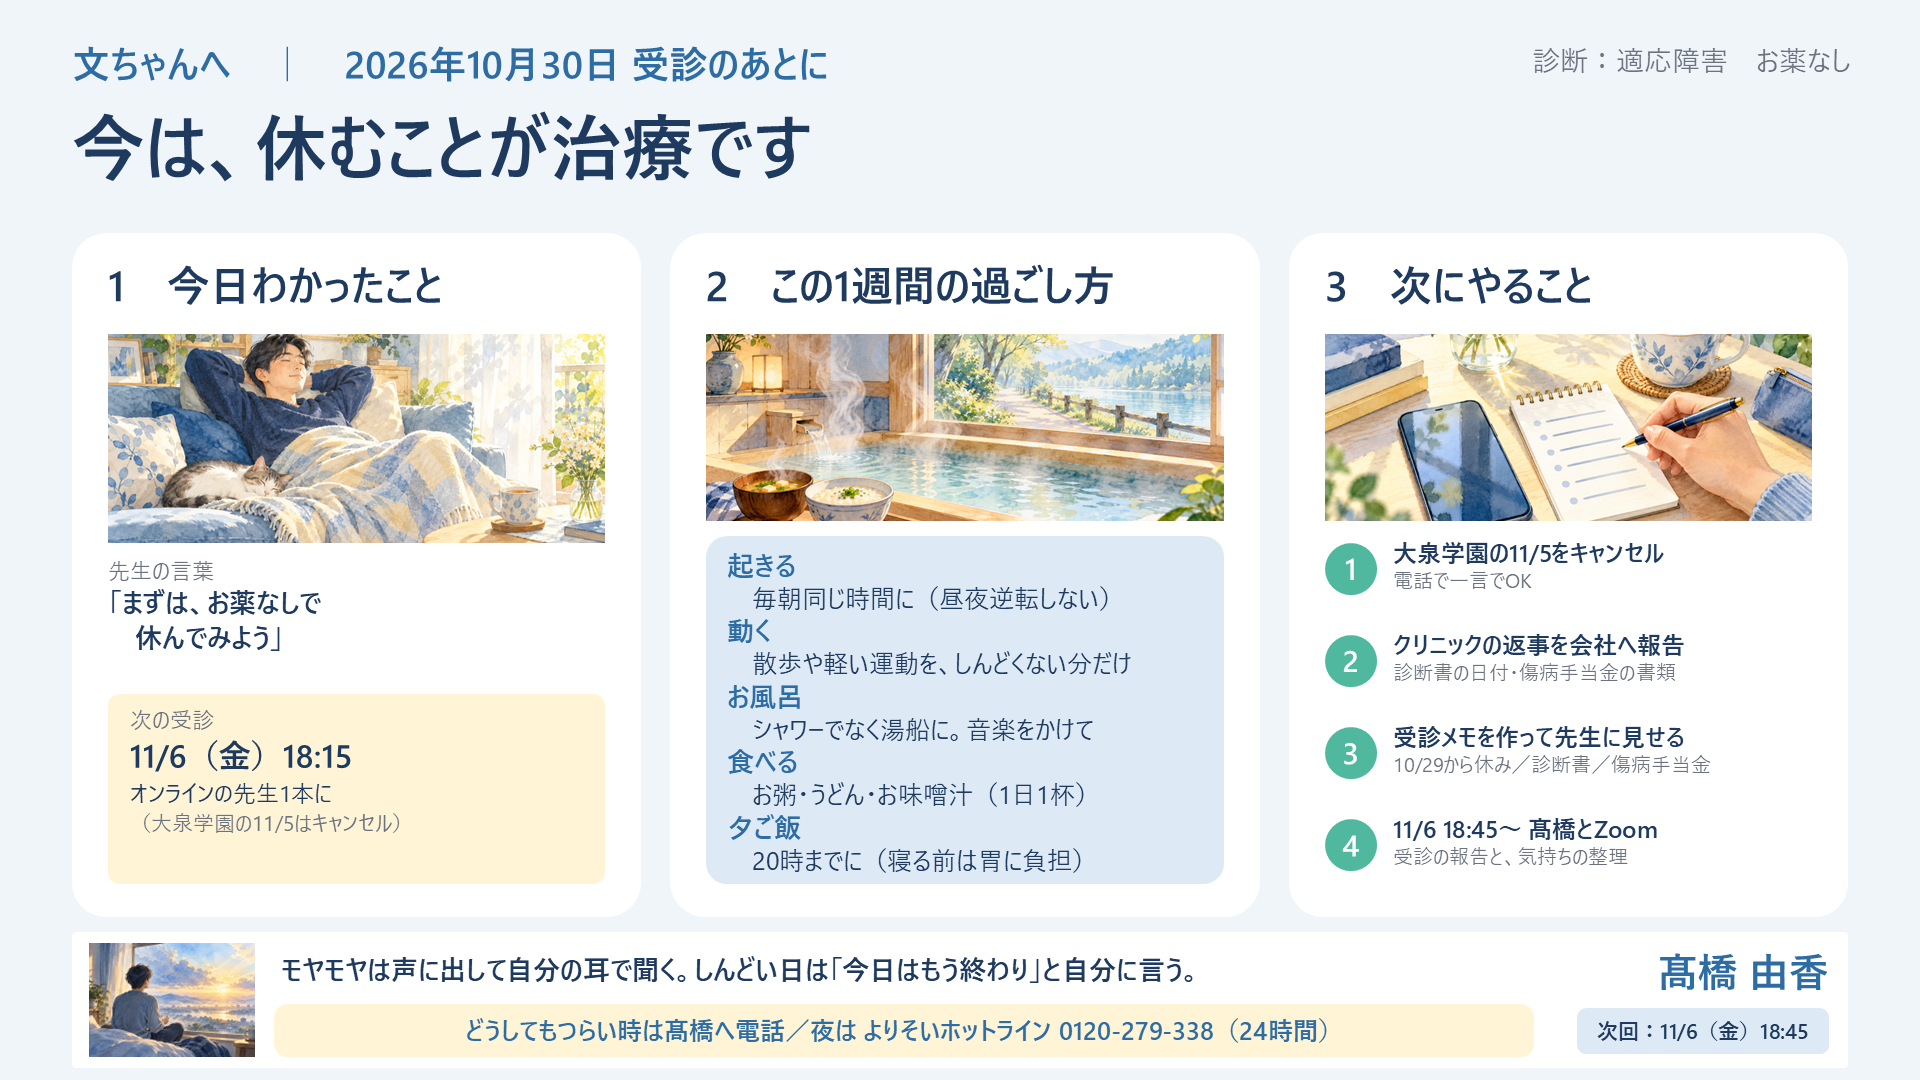
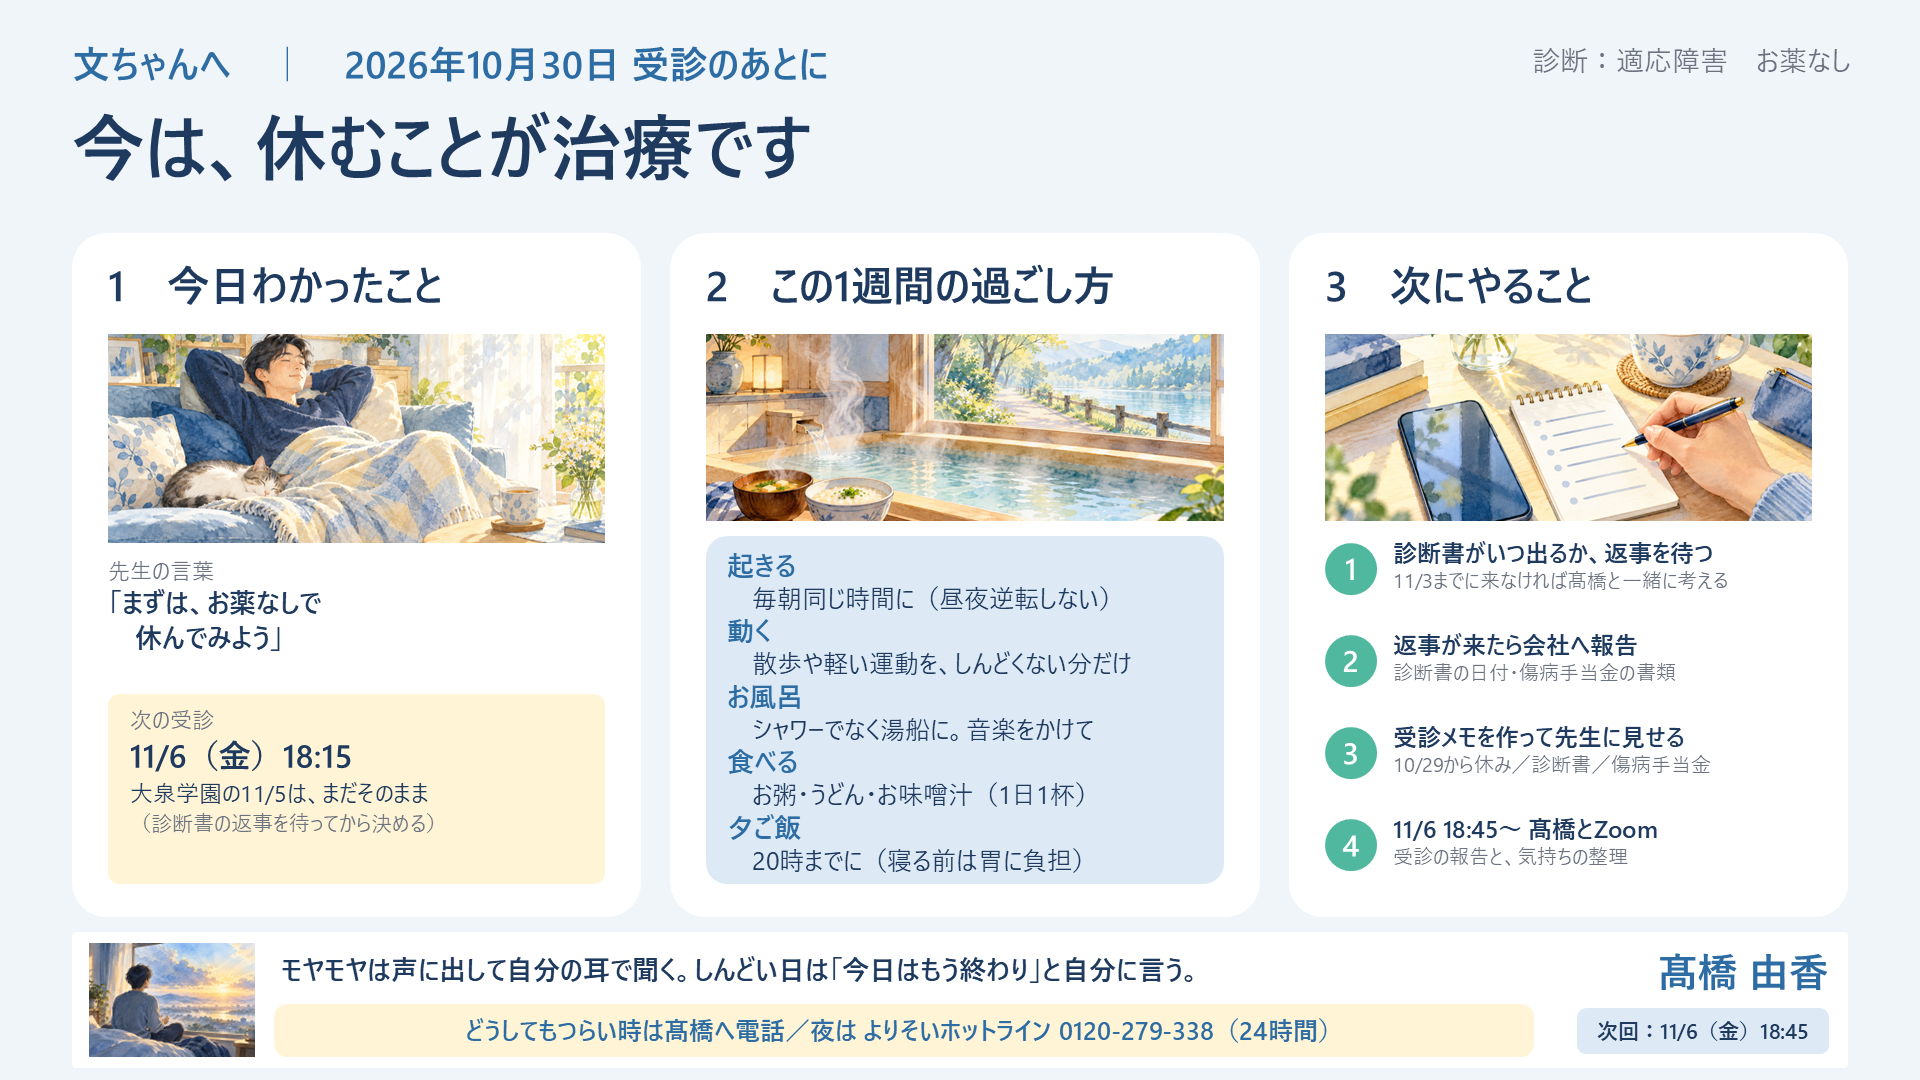
Auto-save 2026-10-30 20:14

Changed region(s): [[0.7188, 0.4889, 0.9062, 0.55], [0.0625, 0.7028, 0.2188, 0.7944], [0.7188, 0.5806, 0.875, 0.6111]]

diff --git a/20_Projects/企業のオンライン保健室/顧客/有限会社グリットワークス/01_メンバーカルテ/文屋伴張_セッションまとめ_20261030.md b/20_Projects/企業のオンライン保健室/顧客/有限会社グリットワークス/01_メンバーカルテ/文屋伴張_セッションまとめ_20261030.md
@@ -14,7 +14,7 @@
 **■ 今日の受診**
 - 診断：適応障害。診断書は書いてもらえることになりました
 - お薬は出さず、**休むこと自体を治療**として様子を見る方針
-- 次の受診：**11/6（金）18:15**（オンライン）。大泉学園の11/5はキャンセルして、オンラインの先生1本に
+- 次の受診：**11/6（金）18:15**（オンライン）。先生からは「どちらか1本に」と言われたが、**大泉学園の11/5はまだキャンセルしない**。オンラインのクリニックから診断書がいつ出るか返事を待ってから決める（11/3までに返事がなければ髙橋と一緒に考える）
 - 問い合わせ中：診断書がいつもらえるか／傷病手当金の書類を書いてもらえるか
 - 会社（全体チャット）への報告は、今日のうちに送れました
 
@@ -45,7 +45,7 @@
 ## ② アプリ入力用記録（面談登録画面の様式）
 
 **【会話要約】**
-10/30オンライン受診の直後にZoomで面談（顔出しなし）。受診で適応障害と診断。診断書は発行予定、発行日と傷病手当金の書類については本人が医療機関に問い合わせ中（受診時に伝え忘れ・10/29から休んでいることも伝えられていない）。薬は出さず休養で様子を見る方針。次回受診11/6 18:15、大泉メンタルクリニック11/5はキャンセルしオンライン診療に一本化。医師からは生活リズム（昼夜逆転を防ぐ）・散歩や運動の指示。体調：吐き気が約1週間続く（ストレス性と本人認識）・食事量は普段の1/3程度・体重変化なし・入浴はシャワーのみ・睡眠は昨夜3時間（日中少し眠れた）・気持ちは昨日と変わらない（話し方は昨日より良い＝髙橋所見）。提出物（営業資料）は書く内容が思いつかず苦しかった、振り返りは良かったが営業資料はやりたくない気持ちが大きかった。言語化の方法・入浴・消化の良い食事・夕食はお休み中は20時までに（普段22時・就寝24時）と助言。面談中に会社の全体チャットへ受診結果を報告（本人了承済み・すでに藤井さん・パートさんも見ている）。生活資金は当面心配なし。希死念慮の確認：「まだそこはないです」。つらい時は髙橋へ電話するよう伝えた。次回11/6 18:45〜Zoom。
+10/30オンライン受診の直後にZoomで面談（顔出しなし）。受診で適応障害と診断。診断書は発行予定、発行日と傷病手当金の書類については本人が医療機関に問い合わせ中（受診時に伝え忘れ・10/29から休んでいることも伝えられていない）。薬は出さず休養で様子を見る方針。次回受診11/6 18:15、医師からは受診先を一本に絞るよう言われた。大泉メンタルクリニック11/5は、面談後のTeamsチャットで由香さんから「診断書の発行時期の返事を待ってから決める・11/3までに返事がなければ一緒に考える」と伝えた（キャンセル保留）。医師からは生活リズム（昼夜逆転を防ぐ）・散歩や運動の指示。体調：吐き気が約1週間続く（ストレス性と本人認識）・食事量は普段の1/3程度・体重変化なし・入浴はシャワーのみ・睡眠は昨夜3時間（日中少し眠れた）・気持ちは昨日と変わらない（話し方は昨日より良い＝髙橋所見）。提出物（営業資料）は書く内容が思いつかず苦しかった、振り返りは良かったが営業資料はやりたくない気持ちが大きかった。言語化の方法・入浴・消化の良い食事・夕食はお休み中は20時までに（普段22時・就寝24時）と助言。面談中に会社の全体チャットへ受診結果を報告（本人了承済み・すでに藤井さん・パートさんも見ている）。生活資金は当面心配なし。希死念慮の確認：「まだそこはないです」。つらい時は髙橋へ電話するよう伝えた。次回11/6 18:45〜Zoom。
 
 **【所見】**
 診断がつき、休養が始まったことは大きい（本人も「これはでかい」）。ただし睡眠3時間・吐き気・食事量低下が続いており、身体症状はまだ改善していない。希死念慮は現時点で否定（「まだ」という言い方には注意）。会社に戻れるかは「正直戻れない方が強い」、戻りたいかは「分からない」、仕事は「何もしたくない方が強い」＝今は判断できる時期ではない。受診時に大事なこと（休職中・傷病手当金）を伝えられなかったのは、頭が回らない状態の表れでもあり、本人任せの手続きは抜けやすい。医師の方針が「休むことが治療」であるため、保健室の関わりは主治医の治療と矛盾しない範囲（生活・受診の準備・気持ちの言語化）で行うのが安全。

diff --git a/20_Projects/企業のオンライン保健室/顧客/有限会社グリットワークス/01_メンバーカルテ/文屋伴張_面談履歴.md b/20_Projects/企業のオンライン保健室/顧客/有限会社グリットワークス/01_メンバーカルテ/文屋伴張_面談履歴.md
@@ -55,7 +55,7 @@
 ## 2026-10-30 オンライン受診の結果（由香さん情報）
 - 文屋さんから由香さんへ連絡：**適応障害と診断された**
 - 18:38〜 由香さんとZoom→[セッションまとめ](文屋伴張_セッションまとめ_20261030.md)
-- 薬なし・休養が治療。次回受診**11/6（金）18:15**オンライン。大泉11/5はキャンセル
+- 薬なし・休養が治療。次回受診**11/6（金）18:15**オンライン。大泉11/5は**キャンセル保留**：オンラインのクリニックから診断書の発行時期の返事を待ってから決める。**11/3までに返事がなければ由香さんと一緒に考える**（面談後Teamsで由香さんが伝達）
 - 診断書の発行日・傷病手当金の書類は本人がクリニックに問い合わせ中（受診時に伝え忘れ。10/29から休んでいることも未伝達）
 - 会社の全体チャットに受診結果を報告済み（面談中に本人が送信）
 - 睡眠3時間・吐き気1週間・食事1/3。希死念慮「まだそこはないです」
